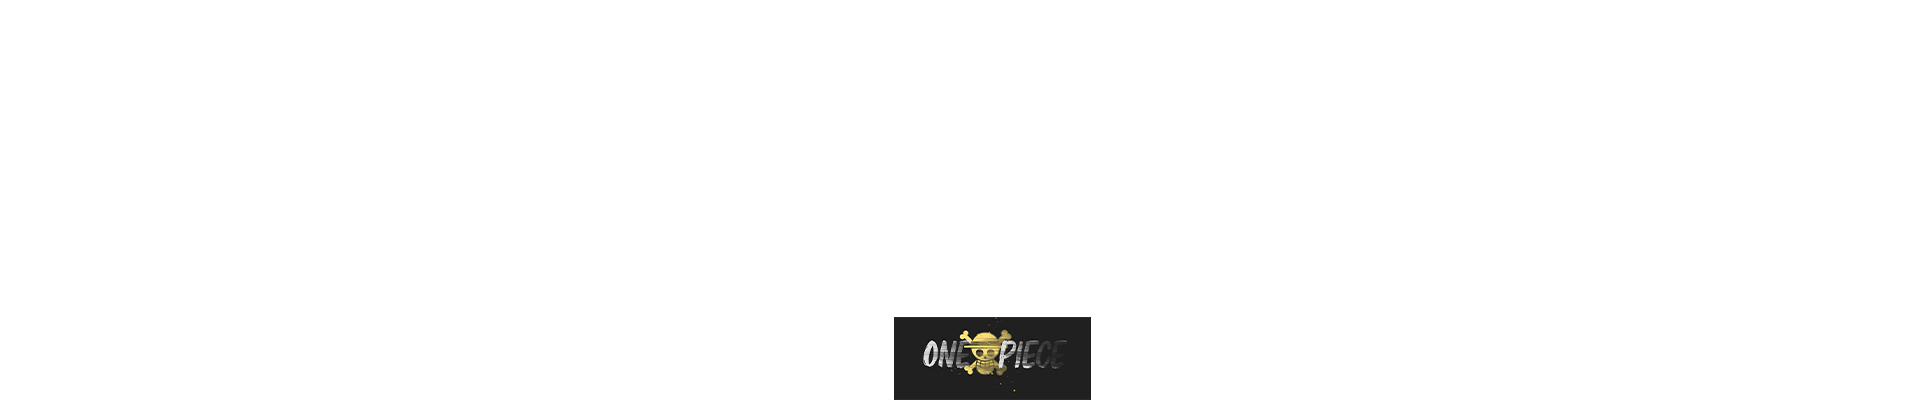
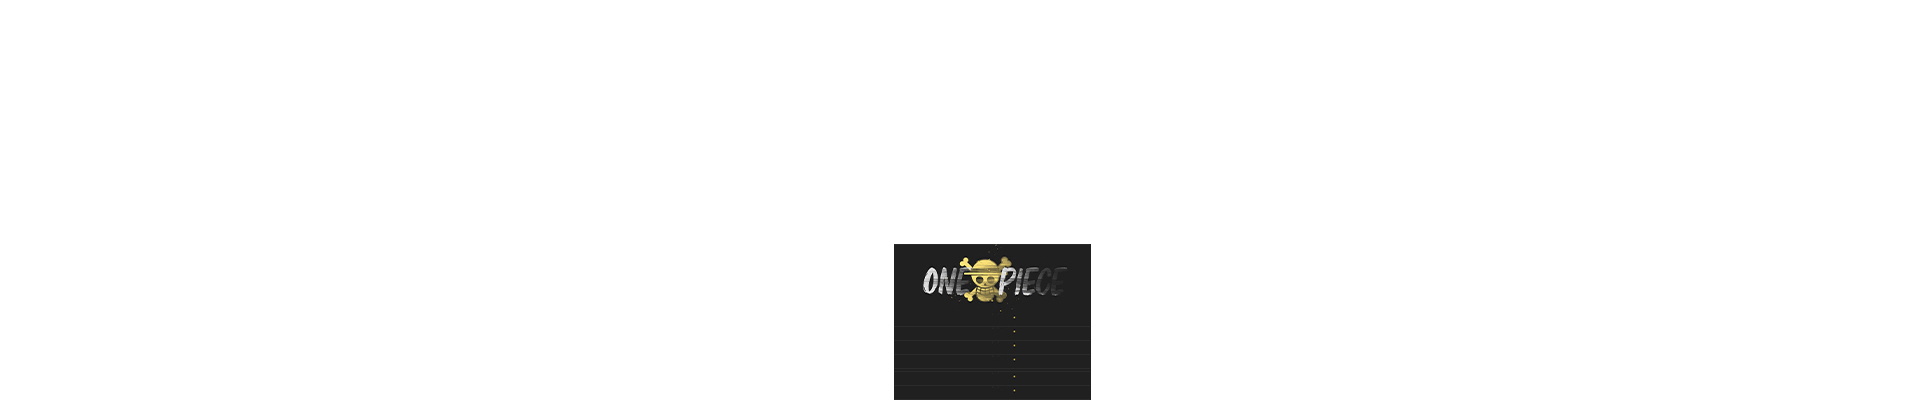
1

Changed region(s): [[0.4688, 0.6, 0.5938, 0.96]]

diff --git a/Project 03/style.css b/Project 03/style.css
@@ -155,7 +155,7 @@ body {
 ul.slides{
 	position: fixed;
 	width: 1980px;
-	height: 400px;
+	height: 345px;
 	list-style: none;
 	margin-top: 480px;
 
